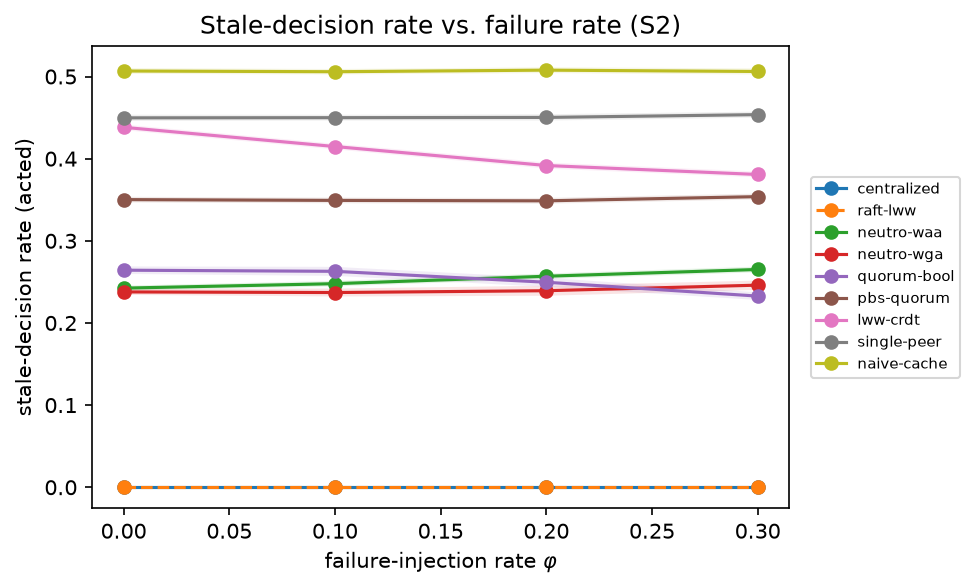
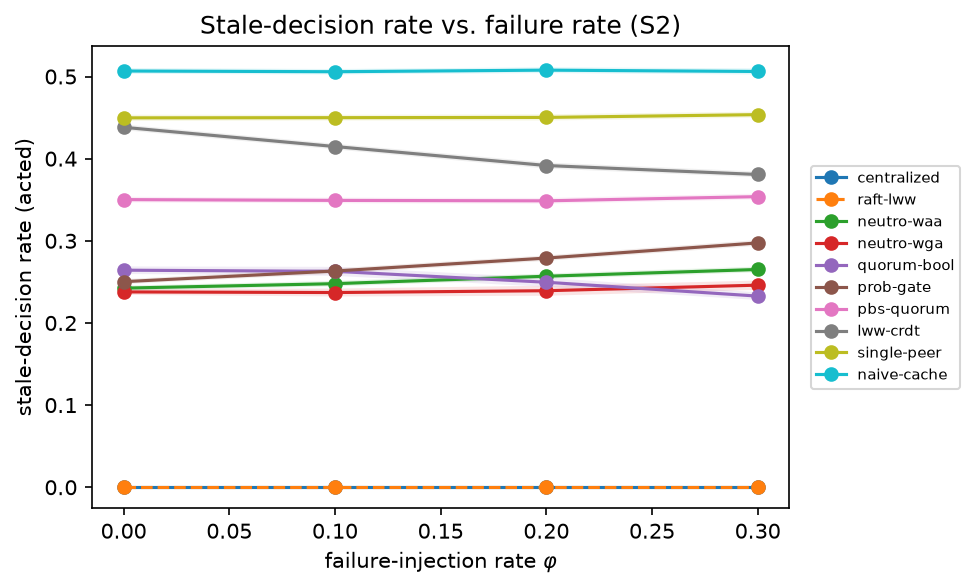
results B: integrate prob-gate single-probability contrast (HONEST)
Reviewer 1 #3 answered with evidence + honesty (N6/N12):
- Methods: prob-gate added to the baseline set (now eight strategies) -- a calibrated single-probability
  gate (Bayesian posterior p=(a+1)/(a+b+2), act iff p>=tau), the sharper control isolating (T,I,F) vs a
  scalar (not just vs a bit).
- Results: new RQ2-vs-single-probability paragraph. prob-gate is a STRONG baseline (avail 0.998 >> the
  boolean quorum's 0.402) and is NOT dominated: near-identical to (T,I,F) on S1 (0.136 vs 0.137); on S2
  it trades 2.8 pp more staleness for 6.9 pp more availability. Honest claim: (T,I,F) does NOT beat a
  calibrated scalar on the headline trade-off, but it is not a relabelling -- the indeterminacy axis
  enables selective abstention + the operators span a frontier one calibrated point cannot; value is
  representational (frontier control + interpretable I/F separation).
- Fig 4 (pareto): prob-gate added (pentagon) -- visibly on the frontier near pbs-quorum but far fresher.
Build clean: 0 overfull, 0 undefined.

diff --git a/paper/manuscript.tex b/paper/manuscript.tex
@@ -584,13 +584,16 @@ a service---records the totally ordered commits and reconstructs the true global
 time. A decision is \emph{stale} iff the value acted on differs from the oracle's true value.
 
 \subsection{Baselines}
-We compare seven decision strategies on identical decision streams: our \textbf{neutro-waa} and
+We compare eight decision strategies on identical decision streams: our \textbf{neutro-waa} and
 \textbf{neutro-wga}; \emph{centralized} (a strongly-consistent authority---the correctness ceiling);
 \emph{raft-lww} (a leader's committed value); \emph{quorum-bool} (majority vote over boolean
 fresh/stale flags---the apples-to-apples control that isolates the value of $(T,I,F)$ vs.\ a bit);
-\emph{pbs-quorum} (a probabilistically-bounded-staleness partial-quorum reader~\cite{bailis2012pbs},
-the nearest prior art); \emph{lww-crdt} (eventually consistent last-writer-wins); \emph{single-peer};
-and \emph{naive-cache} (local read, no coordination---the floor).
+\emph{prob-gate} (a calibrated single-probability gate that collapses the same evidence into one
+Bayesian freshness posterior $p=(a{+}1)/(a{+}b{+}2)$ and acts iff $p\ge\tau$---the sharper control that
+isolates $(T,I,F)$ vs.\ a single scalar); \emph{pbs-quorum} (a probabilistically-bounded-staleness
+partial-quorum reader~\cite{bailis2012pbs}, the nearest prior art); \emph{lww-crdt} (eventually
+consistent last-writer-wins); \emph{single-peer}; and \emph{naive-cache} (local read, no
+coordination---the floor).
 
 \subsection{Experimental design and statistics}
 Each cell is $(\text{scenario},\text{system},\varphi,\text{partition})$ at $R=5$ replicas, cache
@@ -654,6 +657,22 @@ its zero staleness, and every full-availability baseline is far staler.
 most decisions ($0.402$ availability at $\varphi=0.1$, S2); neutro-waa attains comparable correctness
 at $0.942$ availability---roughly $2.3\times$. This isolates the contribution: retaining $(T,I,F)$
 rather than a boolean flag converts indeterminacy into available, correct decisions.
+
+\paragraph{RQ2 vs.\ a single-probability control: is $(T,I,F)$ a relabelled probability?} A one-bit
+quorum is an easy control; the sharper test is a \emph{calibrated single-probability} gate (prob-gate)
+that collapses the same evidence into one Bayesian freshness posterior and acts when it clears $\tau$.
+prob-gate is a strong baseline---far above the boolean quorum (availability $0.998$ vs.\ $0.402$ at S2,
+$\varphi=0.1$)---and is \emph{not} dominated by the neutrosophic layer: on S1 the two are near-identical
+($0.136$ vs.\ $0.137$ stale at full availability), and on S2 prob-gate trades $2.8$ percentage points
+more staleness ($0.263$ vs.\ neutro-waa-g's $0.235$) for $6.9$ points more availability ($0.998$ vs.\
+$0.929$). We therefore make the honest claim, not the convenient one: $(T,I,F)$ does \emph{not} beat a
+calibrated scalar on the headline trade-off---but it is not a mere relabelling either. Calibrated for the
+asymmetric cost, the single scalar collapses toward ``act on almost everything'' ($0.998$ availability),
+whereas the indeterminacy axis lets the layer \emph{selectively abstain} on genuinely-unconfirmed
+decisions, and the operator/score/threshold family spans the whole frontier
+(Figure~\ref{fig:operator}) that one calibrated point cannot. The value of the three-valued encoding is
+representational---frontier control and an interpretable separation of indeterminacy from falsity---not a
+uniform accuracy win over a strong scalar.
 
 \paragraph{RQ5: operator ablation.} SVNNWGA is the conservative operator: lower stale-rate (e.g.\ S3
 transient: $0.226$ vs.\ $0.288$) at much lower availability ($0.276$ vs.\ $0.993$). WAA and WGA thus

diff --git a/experiments/make_figures.py b/experiments/make_figures.py
@@ -17,7 +17,7 @@ ROOT = Path(__file__).resolve().parents[1]
 SUMMARY = ROOT / "results" / "tables" / "per_config_summary.csv"
 FIGDIR = ROOT / "results" / "figures"
 
-ORDER = ["centralized", "raft-lww", "neutro-waa", "neutro-wga", "quorum-bool",
+ORDER = ["centralized", "raft-lww", "neutro-waa", "neutro-wga", "quorum-bool", "prob-gate",
          "pbs-quorum", "lww-crdt", "single-peer", "naive-cache"]
 
 
@@ -51,8 +51,8 @@ def fig_pareto(df: pd.DataFrame, scenario: str = "S2", phi: float = 0.1) -> None
     fig, ax = plt.subplots(figsize=(6.5, 4.2))
     # distinct marker SHAPE per system so coincident points (centralized==raft-lww at (0,0.9)) layer visibly
     markers = {"centralized": "o", "raft-lww": "X", "neutro-waa": "*", "neutro-wga": "h",
-               "quorum-bool": "s", "pbs-quorum": "D", "lww-crdt": "v", "single-peer": "^",
-               "naive-cache": "d"}
+               "quorum-bool": "s", "prob-gate": "p", "pbs-quorum": "D", "lww-crdt": "v",
+               "single-peer": "^", "naive-cache": "d"}
     for sysname in ORDER:
         if sysname not in sub.index:
             continue